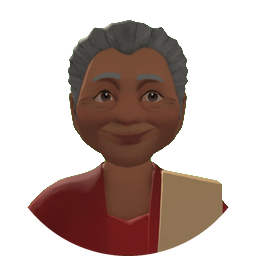
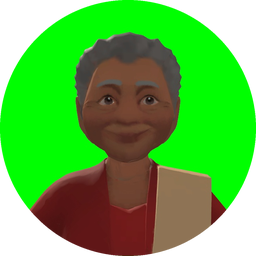
fix(fence): sudut pagar tertutup, hanya gerbang yang terbuka (v3)
Segmen ujung di sudut tidak lagi dibuang saat dua sisi tegak lurus bertemu;
hanya segmen sejajar yang menumpuk (dobel sungguhan) yang dilewati.
Tambah catatan revisi pagar v3, portrait Mbok Minah, dan screenshot tes.

diff --git a/docs/Map_Alun_River_Decisions.md b/docs/Map_Alun_River_Decisions.md
@@ -80,3 +80,24 @@ Cek visual: dari atas, sungai dari kanal sampai tepi peta dan jembatan di ring r
 - Jarak pagar dari tepi lahan yang sudah dimiliki: **4,45 → 2 stud** (`FENCE_OUT`).
 - Di tepi kotak cadangan (batas maksimal lahan), pagar tetap di garis tepi (0 stud), supaya pagar tetangga tidak bersilangan.
 - Belum diterapkan ke Studio. Pagar di place masih versi lama sampai dibangun ulang.
+
+## Revisi pagar v3: sudut harus tertutup (18 Nov)
+
+**Aturan dari Anda:** yang boleh terbuka hanya **gerbang**. Di setiap sudut lahan, pagar harus bertemu pagar (tidak ada celah).
+
+**Penyebab celah (ditemukan di Studio):** di tiap sudut dua sisi pagar tegak lurus bertemu di satu titik. Kode lama membuang segmen ujung sisi kedua karena dianggap dobel (`placedSegments`, jarak < 3,2 stud). Akibatnya ada celah **3,5 stud** di setiap sudut (8 lahan x 4 sudut).
+
+**Perbaikan (`buildPlotFence`):**
+- Segmen di sudut tidak lagi dibuang karena tegak lurus. Dua sisi tegak lurus sama-sama memakai segmen ujungnya dan bertemu di tiang sudut.
+- Yang dibuang hanya segmen yang sejajar dan menumpuk di tempat yang sama (dobel sungguhan, jarak < 1 stud).
+- Gerbang tetap dibuka di tengah sisi depan (`GATE_HALF` 16,65).
+
+**Hasil cek di Studio (titik ujung segmen, dibandingkan tiap lahan):**
+- Sebelum: 10 ujung terbuka per lahan (8 di sudut, 2 di tepi gerbang).
+- Sesudah: 2 ujung terbuka per lahan, keduanya tepi gerbang. Total 1056 segmen (8 x 132).
+
+**Catatan terbuka (belum selesai):**
+- Di sisi lahan yang menghadap jalan sumbu (x ±12 dari sumbu), ada celah 36 stud di tengah lahan. Celah ini juga terjadi di kode lama dan belum saya pastikan penyebabnya. Belum dipastikan apakah sisi itu memang harus dipagar; perlu dicek dulu.
+- Tes beli lahan di Play dan screenshot belum dilakukan. Screen capture di Studio timeout beberapa kali.
+
+**Catatan proses:** setiap `RebuildFence` memanggil `buildLandFences` yang membuat folder `LandFences` baru. Saat tes, ini membuat tiga folder duplikat di `Workspace.Map`. Sudah dibersihkan jadi satu folder. Export sementara `RebuildFencesTmp` sudah dihapus lagi dari kode.
